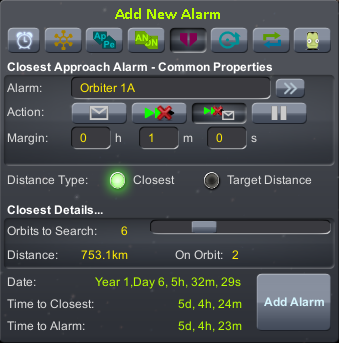
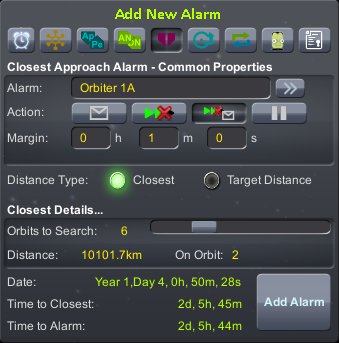
prepping web site for v3.0.1.0

diff --git a/index.html b/index.html
@@ -137,6 +137,7 @@
                 <tr><td><img src="images/listicons/img_listiconSOI.png" alt="SOI" /></td><td>Sphere of Influence</td><td>Create an alarm manually based on when the next SOI point is on the flight path, or set the alarm clock to continually monitor the active flight path and add alarms as it detects SOI changes</td></tr>
                 <tr><td><img src="images/listicons/img_listiconXfer.png" alt="Transfer" /></td><td>Planetary Transfer</td><td>Create an alarm based on Interplanetary Transfer Phase Angles – ie. When should I launch to planet X – Based on Kosmo Not’s post and used in Olex’s Calculator</td></tr>
                 <tr><td><img src="images/listicons/img_listiconEarth.png" alt="Earth" /></td><td>Earth Time</td><td>Create an alarm based on the time in the "Earth" alternative Universe (aka the Real World)</td></tr>
+                <tr><td><img src="images/listicons/img_listiconContract.png" alt="Contract" /></td><td>Contracts</td><td>Create an alarm based on the Expiry or deadline of contracts in career modes</td></tr>
             </table>
         </p>
         <p>
@@ -156,15 +157,16 @@
             </div>
         </p>
         <p>
-            <b>On top of these attributes in each alarm there are also the following features:</b>
+            <b>On top of these attributes in each alarm here are some other useful features:</b>
             <ul>
                 <li>Edit the details of the alarm up until the point when it fires</li>
                 <li>Jump back to the ship that the alarm is related to when it fires</li>
+                <li>Set some alarms to repeat</li>
                 <li>Save and Restore Maneuver Nodes and Targets associated with Alarms</li>
                 <li>No need to add a part to any vessel</li>
-                <li>Alarms are persisted between sessions and independent for each save game you have</li>
-                <li>Visibility of the alarms and info on Space Center and Tracking Station Screens</li>
+                <li>Accessible in the Space Center and Tracking Station Screens</li>
             </ul>
+            For a full rundown of what it can do - check the manual pages and give it a try
         </p>
         <br />
     </div>
@@ -176,10 +178,7 @@
             <h4>Special Thanks</h4>
             <ul>
                 <li>
-                    A big thanks to Alexmun for his WebApp that does this and his providing of a lot of the maths code involved
-                </li>
-                <li>
-                    Also thanks to NathanKell for his persistence in explaining Real Solar System to me so I could test with it
+                    To everyone who has played KSP with this mod and helped make it what it is
                 </li>
             </ul>
             <h4>Links</h4>

diff --git a/manual.html b/manual.html
@@ -216,6 +216,21 @@
                             <li><b>Notes:</b>&nbsp;Details of the alarm – these will show in the tooltips and full message;</li>
                             <li><b>Add Button:</b> Will create this alarm;</li>
                         </ul>
+                        <h3 id="General-Edit-Edit">Repeating Alarms</h3>
+                        <div class="row">
+                            <div class="col-md-6">
+                                <p>For some types of alarms it is possible up to set a repeat value. This means that when the Alarm that is set fires another one will automagically be created like the one that just fired.</p>
+                                <p>Current alarm types that support this are:
+                                    <ul>
+                                        <li><b>Raw Alarms:</b>Repeats based on a simple repeat period</li>
+                                        <li><b>Crew Alarms:</b>Repeats based on a simple repeat period</li>
+                                        <li><b>Modelled Transfer Alarms:</b>These will repeat based on when the next modelled data point for the transfer is to occur</li>
+                                    </ul></p>
+                            </div>
+                            <div class="col-md-6" style="text-align:center;font-style:italic;">
+                                <img src="images/manualscreens/Add_Common_Repeat.png" alt="Edit Alarm" />
+                            </div>
+                        </div>
                         <h3 id="General-Add-Specific">Specific Alarm Types</h3>
                         You will find information on the specific alarm type <a href="#Specific">further down the page</a>
                     </section>
@@ -275,6 +290,7 @@
                         <h2>Common Elements</h2>
                         <p>This window has some common elements, and then some specifics for each alarm type. The below annotated picture highlights what each is, and you can get the details from the <a href="#General-Add-Common">Common Elements section</a> above</p>
                         <img src="images/manualscreens/Add_Common_Example.png" alt="Add Common Elements">
+                        <p><br />You can also find information about the repeat options in that section</p>
                     </section>
                     <section id="Specific-Raw">
                         <h2>Raw Alarms</h2>
